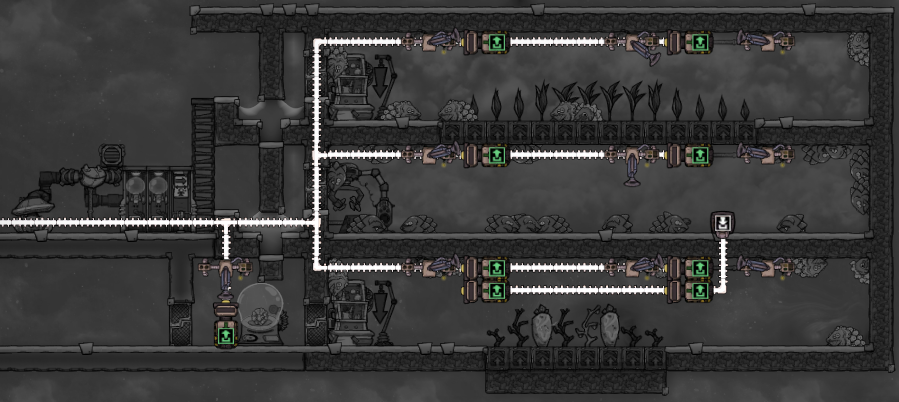
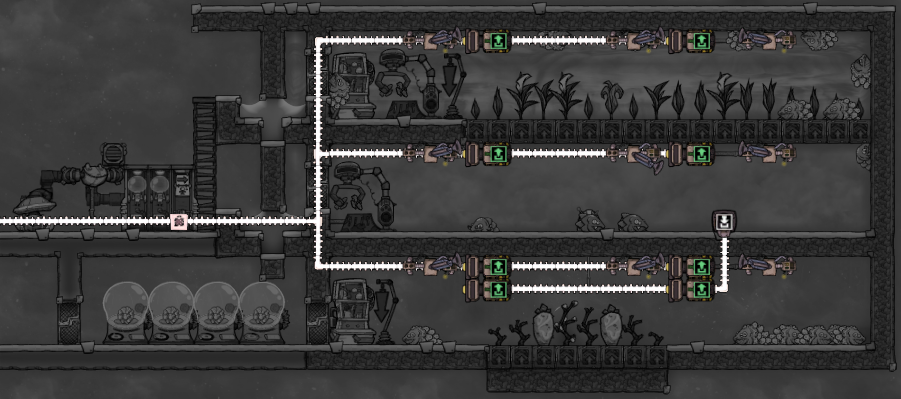
Drekko farm update

diff --git a/Drekko-Farm-Plastics/README.md b/Drekko-Farm-Plastics/README.md
@@ -31,3 +31,10 @@ Power Overlay:
 Conveyor Overlay:
 
 ![Conveyor!](conveyor.png)
+
+Automation Overlay:
+
+![Conveyor!](conveyor.png)
+
+*Critter Count Sensor* is set to *Count Eggs* below 10
+
